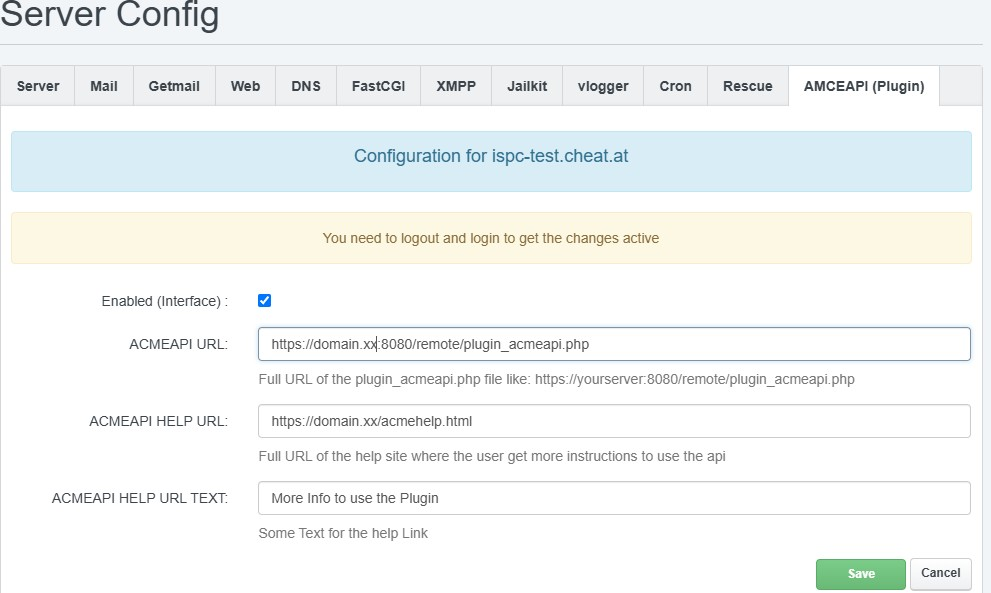
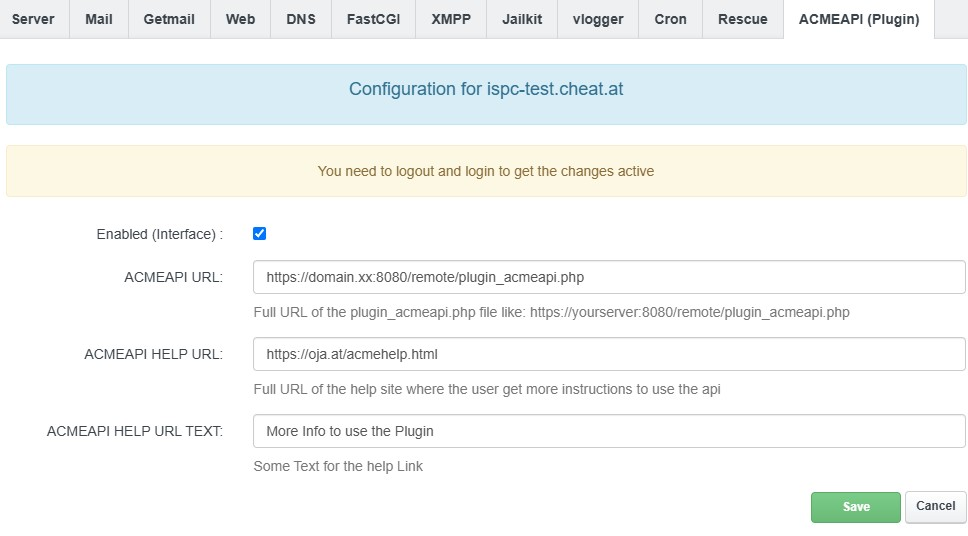
2

diff --git a/interface/lib/plugins/acmeapi_plugin.inc.php b/interface/lib/plugins/acmeapi_plugin.inc.php
@@ -65,7 +65,7 @@ class acmeapi_plugin
 
         $tabs = array(
             'plugin_acmeapi' => array(
-                'title' => 'AMCEAPI (Plugin)',
+                'title' => 'ACMEAPI (Plugin)',
                 'width' => 100,
                 'template' => $this->plugin_dir . '/templates/plugin_acmeapi_server_config_edit.htm',
                 'fields' => array(
@@ -148,7 +148,7 @@ class acmeapi_plugin
 
         $tabs = array (
             'plugin_acmeapi' => array(
-            'title'  => "AMCEAPI (Plugin)",
+            'title'  => "ACMEAPI (Plugin)",
             'width'  => 100,
             'template'  => $this->plugin_dir . '/templates/plugin_acmeapi_soa_edit_tab.htm',
             'fields'  => array (
@@ -168,7 +168,7 @@ class acmeapi_plugin
 
         $tabs = array (
             'plugin_acmeapi' => array(
-                'title'  => "AMCEAPI (Plugin)",
+                'title'  => "ACMEAPI (Plugin)",
                 'width'  => 100,
                 'template'  => $this->plugin_dir . '/templates/plugin_acmeapi_soa_edit_tab_notready.htm',
             ));

diff --git a/README.md b/README.md
@@ -102,7 +102,7 @@ certbot certonly --manual --manual-auth-hook "/usr/local/sbin/dns_ispcapi.sh aut
 ```
 
 ## Limits
-- `Multiple SANs in difference zones (like -d mail.domain1.xx -d mail.domain2.xx) not possible (need to modify certbot/acme.sh script for this)`
+- `Multiple SANs in difference zones (like -d mail.domain1.xx -d mail.domain2.xx) not possible (need to modify certbot/acme.sh plugin scripts for this)`
 
 
 ## Windows Client
